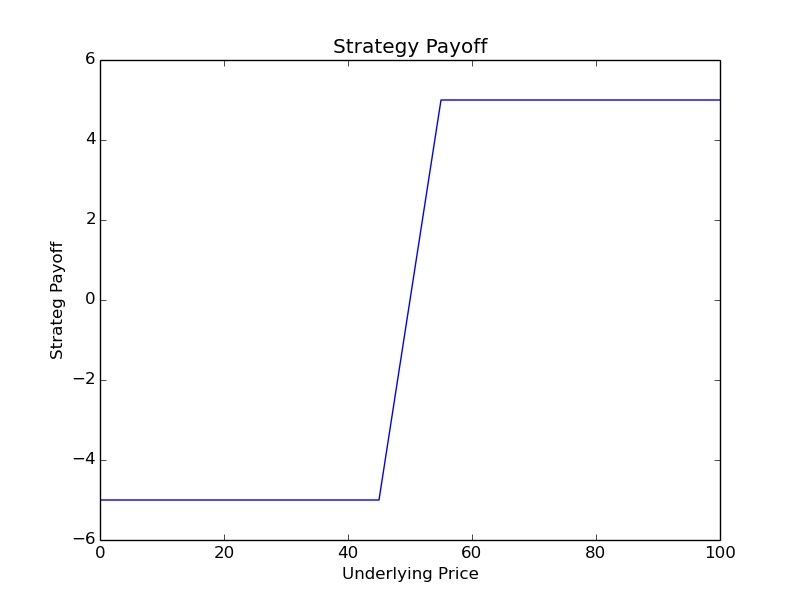
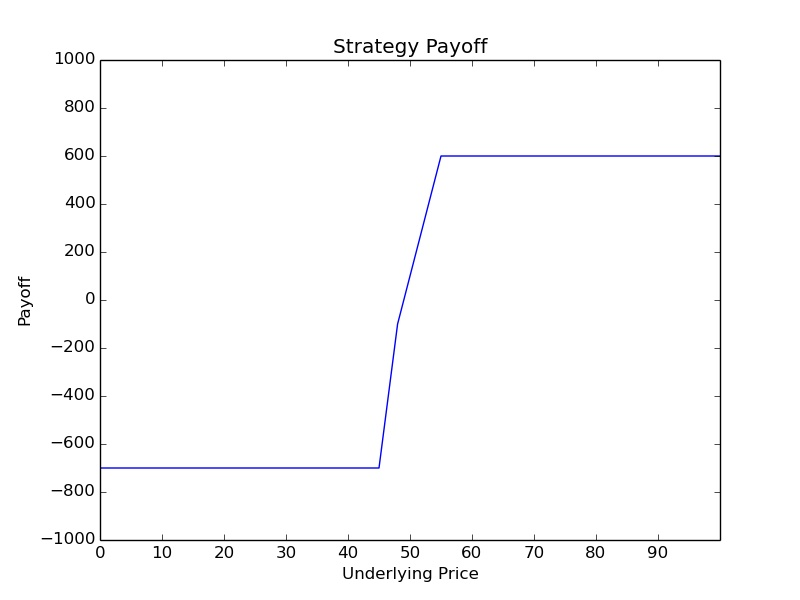
Final Commit

diff --git a/payoffcharts/python/view.py b/payoffcharts/python/view.py
@@ -3,16 +3,16 @@ matplotlib.use('Agg')
 import matplotlib.pyplot as plt
 
 class GraphView:
-    def drawgraph(self, points):
-        x_axis = [i for i in points]
-        y_axis = [points[i] for i in points]
-        # x_ticks = [i for i in range(0, 100, 10)]
-        # y_ticks = [i for i in range(-100, 120 ,10)]
+    def drawgraph(self, payoffs):
+        x_axis = [i for i in payoffs]
+        y_axis = [payoffs[i] for i in payoffs]
+        x_ticks = [i for i in range(0, 100, 10)]
+        y_ticks = [i for i in range(-1000, 1200 ,200)]
         plt.plot(x_axis, y_axis)
-        # plt.xticks(x_ticks)
-        # plt.yticks(y_ticks)
+        plt.xticks(x_ticks)
+        plt.yticks(y_ticks)
         plt.xlabel('Underlying Price')
-        plt.ylabel('Strateg Payoff')
+        plt.ylabel('Payoff')
         plt.title('Strategy Payoff')
         plt.savefig('Strategy_Payoff.jpg')
 
@@ -20,7 +20,7 @@ class View:
     def input_entry(self):
         while True:
             try: 
-                entry = float(input("Please enter the entry price of the option or underlying: "))
+                entry = float(input("Please enter the entry price: "))
                 break
             except:
                 print ("Please input numbers! ")
@@ -30,12 +30,22 @@ class View:
     def input_strike(self):
         while True:
             try: 
-                strike = float(input("Please enter the option strike: "))
+                strike = int(input("Please enter the option strike: "))
                 break
             except:
-                print ("Please input numbers! ")
+                print ("Please input integers! ")
                 continue
         return strike
+    
+    def input_amount(self):
+        while True:
+            try: 
+                amount = int(input("Please enter the trading amount: "))
+                break
+            except:
+                print ("Please input integers! ")
+                continue
+        return amount
     
     def input_type(self):
         while True:
@@ -58,15 +68,22 @@ class View:
         return side
         
     def register_leg(self):
-        answer = input("Enter 'Y' to register a leg? ")
-        if answer in ["Y", "y"]:
-            return answer
-
+        response = input("Enter 'Y' to register a leg? ")
+        if response in ['Y', 'y']:
+            return True
+            
+    def print_legs(self, legs):
+        for leg in legs:
+            if leg.typ == "Underlying":
+                print ("Strategy Leg:\n%s %d share(s) %s for $%0.2f" %(leg.side, leg.amount, leg.typ, leg.entry_price))
+            else:
+                print ("Strategy Leg:\n%s %d share(s) $%d %s for $%0.2f" %(leg.side, leg.amount, leg.strike, leg.typ, leg.entry_price))
         
 if __name__ == "__main__":
     # graph = GraphView()
     # graph.drawgraph({0: 1, 1: 2, 2: 3})
     view = View()
+    print (view.register_leg())
     print (view.input_entry())
     print (view.input_strike())
     print (view.input_side())

diff --git a/payoffcharts/python/strategies.py b/payoffcharts/python/strategies.py
@@ -1,43 +1,58 @@
 from option_leg import *
 
 class LongUnderlying:
-    def calculate_payoff(self, strike, entry, price):
-        payoff = price - entry
+    def calculate_payoff(self, strike, entry, price, amount):
+        payoff = (price - entry) * amount
         return payoff
         
 class ShortUnderlying:
-    def calculate_payoff(self, strike, entry, price):
-        payoff = entry - price
+    def calculate_payoff(self, strike, entry, price, amount):
+        payoff = (entry - price) * amount
         return payoff
 
 class LongCall:
-    def calculate_payoff(self, strike, premium, price):
+    def calculate_payoff(self, strike, premium, price, amount):
         if price <= strike:
-            payoff = 0 - premium
+            payoff = -premium * amount * 100
         else:
-            payoff = price - strike - premium
+            payoff = (price - strike - premium) * amount * 100
         return payoff
 
 class ShortCall:
-    def calculate_payoff(self, strike, premium, price):
+    def calculate_payoff(self, strike, premium, price, amount):
         if price <= strike:
-            payoff = premium
+            payoff = premium * amount * 100
         else:
-            payoff = strike - price + premium
+            payoff = (strike - price + premium) * amount * 100
         return payoff
         
 class LongPut:
-    def calculate_payoff(self, strike, premium, price):
+    def calculate_payoff(self, strike, premium, price, amount):
         if price <= strike:
-            payoff = strike - price - premium
+            payoff = (strike - price - premium) * amount * 100
         else:
-            payoff = 0 - premium
+            payoff = -premium * amount * 100
         return payoff
         
 class ShortPut:
-    def calculate_payoff(self, strike, premium, price):
+    def calculate_payoff(self, strike, premium, price, amount):
         if price <= strike:
-            payoff = price - strike + premium
+            payoff = (price - strike + premium) * amount * 100
         else:
-            payoff = premium
+            payoff = premium * amount * 100
         return payoff
+        
+if __name__ == "__main__":
+    long_underlying = LongUnderlying()
+    assert (long_underlying.calculate_payoff(0, 50, 60, 100) == 1000), "Expected value: 1000"
+    short_underlying = ShortUnderlying()
+    assert (short_underlying.calculate_payoff(0, 50, 60, 100) == -1000), "Expected value: -1000"
+    long_call = LongCall()
+    assert (long_call.calculate_payoff(50, 5, 60, 1) == 500), "Expected value: 500"
+    short_call = ShortCall()
+    assert (short_call.calculate_payoff(50, 5, 60, 2) == -1000), "Expected value: -1000"
+    long_put = LongPut()
+    assert (long_put.calculate_payoff(50, 5, 60, 2) == -1000), "Expected value: -1000"
+    short_put = ShortPut()
+    assert (short_put.calculate_payoff(50, 5, 60, 1) == 500), "Expected value: 500"
+    

diff --git a/payoffcharts/python/option_leg.py b/payoffcharts/python/option_leg.py
@@ -1,19 +1,26 @@
 class Leg:
-    def __init__(self, side, typ, strike, premium):
+    def __init__(self, side, typ, strike, premium, amount):
         self.entry_price = premium 
         self.strike = strike
         self.typ = typ
         self.side = side
+        self.amount = amount
         
     def get_key(self):
         return self.side + self.typ
         
     
 if __name__ == "__main__":
-    leg1 = Leg("Long", "Call", 50, 5)
-    leg2 = Leg("Short", "Underlying", 0, 80)
+    leg1 = Leg("Long", "Call", 50, 5, 1)
+    leg2 = Leg("Short", "Underlying", 0, 80, 1)
+    leg3 = Leg("Long", "Underlying", 0, 50, 1)
+    leg4 = Leg("Short", "Put", 50, 5, 1)
+    leg5 = Leg("Short", "Call", 50, 5, 1)
+    leg6 = Leg("Long", "Put", 50, 5, 1)
     assert (leg1.get_key() == "LongCall"), "Expected value: LongCall"
     assert (leg2.get_key() == "ShortUnderlying"), "Expected value: ShortUnderlying"
-
-
+    assert (leg3.get_key() == "LongUnderlying"), "Expected value: LongUnderlying"
+    assert (leg4.get_key() == "ShortPut"), "Expected value: ShortPut"
+    assert (leg5.get_key() == "ShortCall"), "Expected value: ShortCall"
+    assert (leg6.get_key() == "LongPut"), "Expected value: LongPut"
 

diff --git a/payoffcharts/python/payoffcalculator.py b/payoffcharts/python/payoffcalculator.py
@@ -30,14 +30,21 @@ class Calculator:
         while price <= 100:
             result = []
             for strat in strategies:
-                result.append(strategies[strat][1].calculate_payoff(strategies[strat][0].strike, strategies[strat][0].entry_price, price)) 
+                result.append(strategies[strat][1].calculate_payoff(
+                            strategies[strat][0].strike, 
+                            strategies[strat][0].entry_price, 
+                            price,
+                            strategies[strat][0].amount)) 
                 payoff[price] = sum(result)
             price += 1
         return payoff
         
 if __name__ == "__main__":
     result = Calculator()
-    legs = result.register_legs(Leg("Long", "Call", 50, 5), Leg("Long", "Put", 50, 5), Leg("Long", "Underlying", 0, 50))
+    legs = result.register_legs(Leg("Long", "Underlying", 0, 50, 100), 
+                                Leg("Short", "Call", 55, 0.5, 1), 
+                                Leg("Long", "Put", 45, 0.5, 2),
+                                Leg("Short", "Put", 48, 1.5, 1))
     strats = result.register_strategy(legs)
     print (result.calculate(strats))
     

diff --git a/payoffcharts/python/main.py b/payoffcharts/python/main.py
@@ -11,12 +11,13 @@ class Controller:
     def input_legs(self):
         side = self.view.input_side()
         typ = self.view.input_type()
-        entry_price = self.view.input_entry()
         if typ == "Underlying":
             strike = 0
         else:
             strike = self.view.input_strike()
-        return Leg(side, typ, strike, entry_price)    
+        entry_price = self.view.input_entry()
+        amount = self.view.input_amount()
+        return Leg(side, typ, strike, entry_price, amount)    
         
     def register(self):
         legs = []
@@ -35,6 +36,7 @@ class Controller:
         
     def get_strategy_payoff(self):
         legs = self.register()
+        self.view.print_legs(legs)
         strats = self.calculator.register_strategy(legs)
         payoff = self.calculator.calculate(strats)
         self.plotter.drawgraph(payoff)
